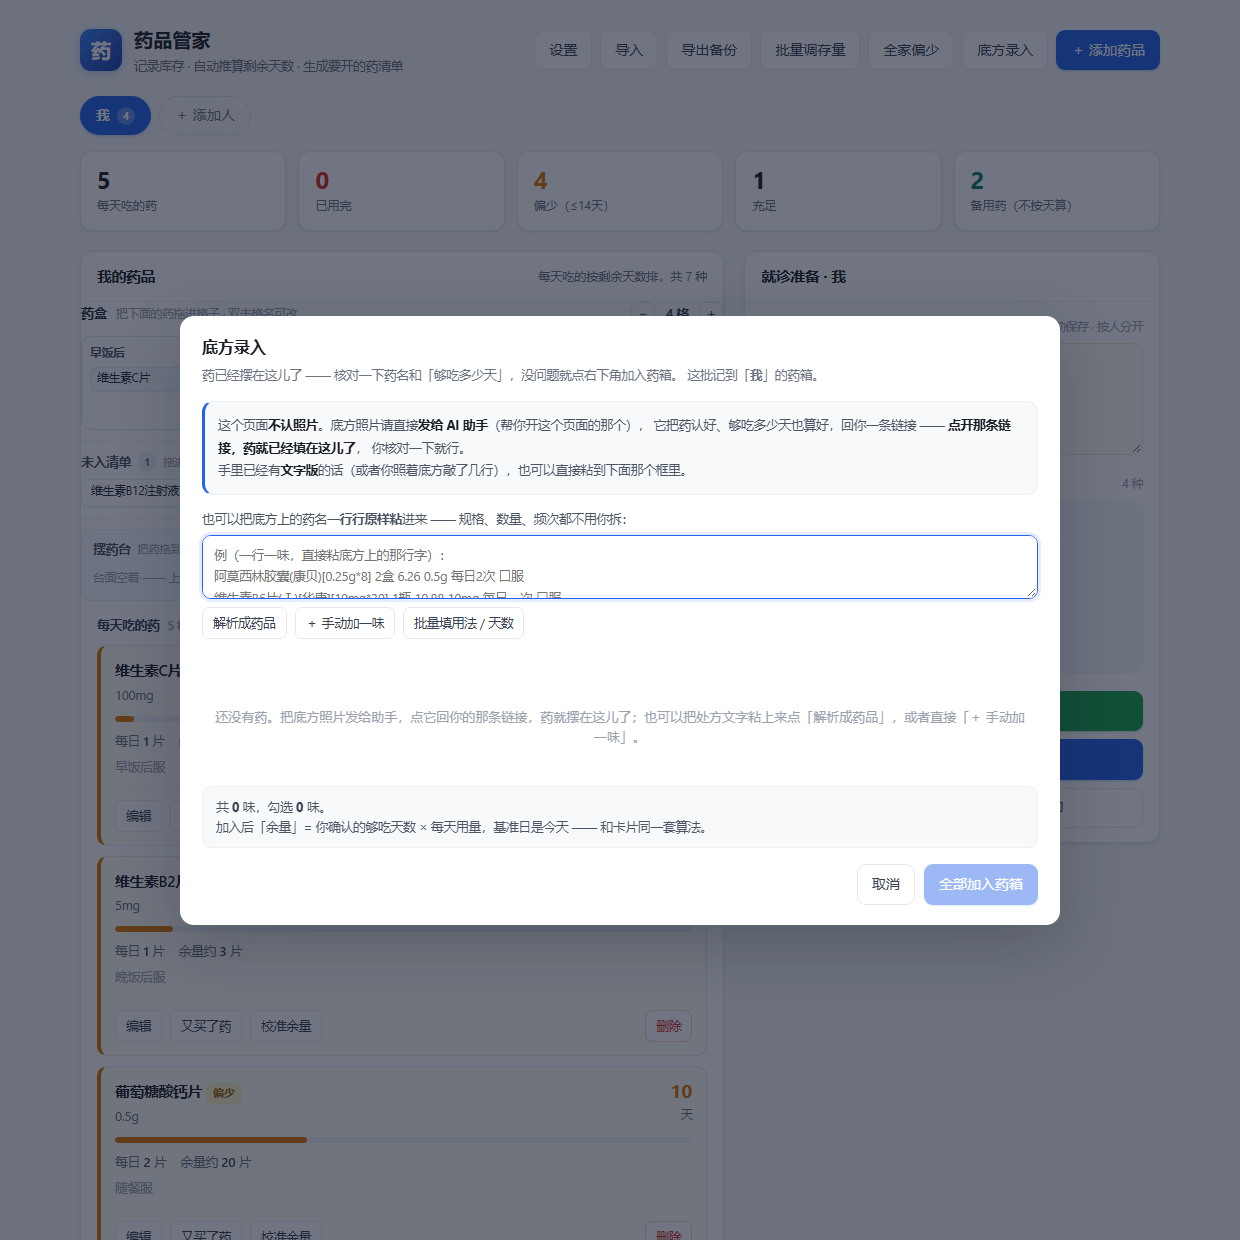
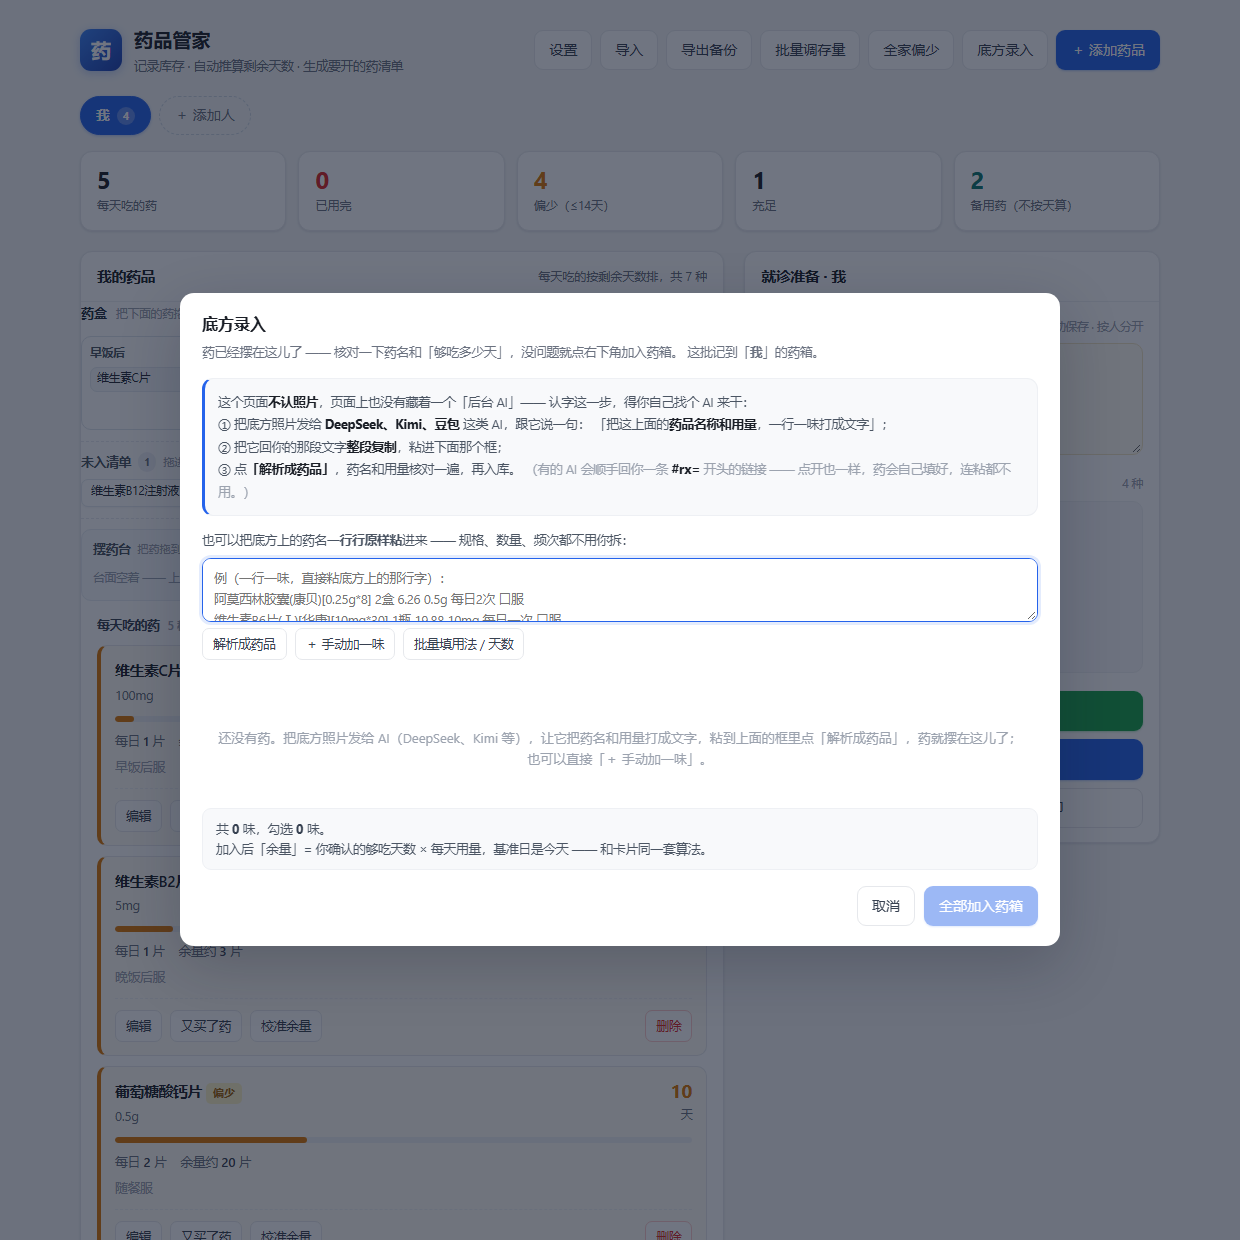
底方录入按用户视角重写：照片自己发给 AI（DeepSeek/Kimi），把药名和用量粘回来

diff --git a/index.html b/index.html
@@ -479,9 +479,10 @@ dialog::backdrop{background:rgba(15,23,42,.36)}
   border:1px solid var(--line-2);border-left:3px solid var(--brand);border-radius:11px;
   background:#f8f9fb;font-size:12.5px;color:#4b5563;line-height:1.8}
 .rx-howto b{color:var(--text)}
+.rx-howto .tip{color:var(--faint)}
 .rx-paste{display:flex;flex-direction:column;gap:7px;margin-bottom:14px}
 .rx-paste .lt{font-size:12.5px;color:#4b5563}
-#rxPaste{font:inherit;font-size:12.5px;line-height:1.7;padding:9px 11px;min-height:64px;
+#rxPaste{font:inherit;font-size:12.5px;line-height:1.7;padding:9px 11px;min-height:92px;
   resize:vertical;border:1px solid var(--line);border-radius:9px;background:#fff;color:var(--text)}
 #rxPaste:focus{outline:none;border-color:var(--brand);box-shadow:0 0 0 3px rgba(37,99,235,.12)}
 .rx-list{display:flex;flex-direction:column;gap:9px;max-height:40vh;overflow:auto}
@@ -611,7 +612,7 @@ dialog::backdrop{background:rgba(15,23,42,.36)}
       <button class="btn ghost" id="btnExport">导出备份</button>
       <button class="btn ghost" id="btnBulk" title="按「够吃 N 天」统一加减这个药箱里所有药品的存量">批量调存量</button>
       <button class="btn ghost" id="btnFam" title="把全家每个人药箱里「已用完 / 偏少」的药摊在一页，买药开药一趟办完">全家偏少</button>
-      <button class="btn ghost" id="btnRx" title="底方照片发给助手（AI），它回你一条链接，点开药就填好了；也可以粘文字或手动加">底方录入</button>
+      <button class="btn ghost" id="btnRx" title="底方照片先发给 AI（DeepSeek、Kimi 等），让它把药名和用量打成文字，再粘进来解析">底方录入</button>
       <button class="btn primary" id="btnAdd">＋ 添加药品</button>
     </div>
   </header>
@@ -752,20 +753,23 @@ dialog::backdrop{background:rgba(15,23,42,.36)}
   </form>
 </dialog>
 
-<!-- 底方录入 —— 只走「助手通道」：
+<!-- 底方录入 —— 页面只认「文字」，照片得先过一个 AI：
      2026-10-12 这里原本还有第二条路「浏览器端拍照 + OCR」（按 EXIF 把照片转正 + 在浏览器里认药名），
      2026-10-13 按用户实测结论**整条删掉**：底方是手机随手拍的，歪、糊、反光不由人控制，
      浏览器里那套识别**跑不通**（认不准还得人一格一格就地改，比直接填还慢），留着只会误导人。
      现在只剩两条都很快的路：
-       ① 把照片发给 AI 助手 → 它认好字、算好天数 → 回你一条带 `#rx=` 的链接 → 点开药已填好；
-       ② 手上已有文字版 → 直接粘进下面的框，点「解析成药品」。
-     ★ 页面里藏了一份写给 AI 助手的说明（紧接着的 `#rx-agent-guide`），
-       助手读一眼就知道该怎么配合 —— 别删它。 -->
+       ① 照片发给任意一个 AI（DeepSeek / Kimi / 豆包…），让它把「药名 + 用量」打成文字，
+          用户把那段文字粘进下面的框 → 点「解析成药品」；
+       ② 那条路里的 AI 若愿意直接给一条带 `#rx=` 的链接，点开药就填好了（可选，不是必须）。
+     ★ 2026-10-23 用户点明口径：「用户看到的就是这个界面，不存在什么这个界面后面还安排着一个后台 AI」。
+       所以界面上**不许**再写「发给帮你开这个页面的助手」这类话 —— 页面自己不会认字，
+       认字的是用户自己找的那个 AI。写文案时按「用户手上的照片 + 一个聊天窗口」来描述。
+     ★ 页面里藏了一份写给 AI 的说明（紧接着的 `#rx-agent-guide`，方便愿意配合的 AI 直接出链接）—— 别删它。 -->
 <dialog id="dlgRx">
   <form id="formRx">
     <div class="dlg-h">
       <h3>底方录入</h3>
-      <p id="rxSub">底方照片交给助手（AI）认，它回你一条链接，点开药就填好了；也可以把药名粘进来，或手动加一味。</p>
+      <p id="rxSub">底方照片先发给 AI（DeepSeek、Kimi 等），让它把药名和用量写成文字，再粘进下面的框。</p>
     </div>
     <div class="dlg-b">
 
@@ -773,10 +777,12 @@ dialog::backdrop{background:rgba(15,23,42,.36)}
       <div class="rx-audit" id="rxAudit" hidden></div>
 
       <div class="rx-howto">
-        这个页面<b>不认照片</b>。底方照片请直接<b>发给 AI 助手</b>（帮你开这个页面的那个），
-        它把药认好、够吃多少天也算好，回你一条链接 —— <b>点开那条链接，药就已经填在这儿了</b>，
-        你核对一下就行。<br>
-        手里已经有<b>文字版</b>的话（或者你照着底方敲了几行），也可以直接粘到下面那个框里。
+        这个页面<b>不认照片</b>，页面上也没有藏着一个「后台 AI」—— 认字这一步，得你自己找个 AI 来干：<br>
+        ① 把底方照片发给 <b>DeepSeek、Kimi、豆包</b> 这类 AI，跟它说一句：
+        「把这上面的<b>药品名称和用量</b>，一行一味打成文字」；<br>
+        ② 把它回你的那段文字<b>整段复制</b>，粘进下面那个框；<br>
+        ③ 点<b>「解析成药品」</b>，药名和用量核对一遍，再入库。
+        <span class="tip">（有的 AI 会顺手回你一条 <b>#rx=</b> 开头的链接 —— 点开也一样，药会自己填好。）</span>
       </div>
 
       <div class="rx-paste">
@@ -809,13 +815,18 @@ dialog::backdrop{background:rgba(15,23,42,.36)}
      产出一条 `#rx=` 链接发回来，用户点开药就填好了。改这个页面时别把它删了。
      ============================================================ -->
 <script type="text/plain" id="rx-agent-guide">
-[药品管家 · 底方录入 —— 写给 AI 助手的说明]
+[药品管家 · 底方录入 —— 写给 AI 的说明]
 
-你是谁：你是「药品管家」这个单文件网页的助手。
-用户会把**底方/处方照片**发给你，让你把上面的药录进这个页面。
+你是谁：用户正在跟你聊天，把**底方/处方照片**发给你，让你把上面的药录进「药品管家」这个单文件网页。
+页面后面**没有任何后台 AI**，认字的就是你（DeepSeek / Kimi / 豆包 / 其他助手都算）。
 这个页面**故意不做浏览器端 OCR**（手机拍的处方歪、糊、反光不由人控制，网页里认不准，
 2026-10-13 已把那套整条删掉），认照片这件事整条交给你。
-你只要产出**一条链接**，用户点开，药就已经摆好在弹窗里等着入库。
+
+两条路，任选：
+  · **给文字**（最通用）：把药名和用量**一行一味**打成纯文字，让用户复制粘进「底方录入」的框里。
+    格式随意，但每行至少要有「药名 + 每次几个 + 每天几次」，页面才解析得出「够吃几天」。
+  · **给链接**（更好，但需要你能构造 URL）：按下面这份说明产出一条 `#rx=` 链接，
+    用户点开，药就已经摆好在弹窗里等着入库，连粘都不用。
 
 ⚠ 先把这一条读完（2026-10-13 加，起因是一次真实事故）：
    有一次，助手把底方上的一味药**换成了另一个同类药**，同时又**漏掉一味真的** ——
@@ -3452,8 +3463,9 @@ function renderRx(){
   const list = $('#rxList');
   const keep = list.scrollTop;
   if(!rxRows.length){
-    list.innerHTML = '<div class="rx-empty">还没有药。把底方照片发给助手，点它回你的那条链接，药就摆在这儿了；'
-      + '也可以把处方文字粘上来点「解析成药品」，或者直接「＋ 手动加一味」。</div>';
+    list.innerHTML = '<div class="rx-empty">还没有药。把底方照片发给 AI（DeepSeek、Kimi 等），'
+      + '让它把药名和用量打成文字，粘到上面的框里点「解析成药品」，药就摆在这儿了；'
+      + '也可以直接「＋ 手动加一味」。</div>';
     list.scrollTop = 0;
     rxSyncFoot();
     return;
@@ -3559,7 +3571,7 @@ function renderUse(){
   const keep = list.scrollTop;
   if(!rxRows.length){
     list.innerHTML = '<div class="use-empty">还没有药。回上一页把底方上的药录进来 —— '
-      + '把照片发给助手拿链接，或者把处方文字粘进去解析。</div>';
+      + '把 AI 写成文字的药名粘进去解析。</div>';
   } else {
     list.innerHTML = rxRows.map(rxUseRowHTML).join('');
   }
@@ -3614,7 +3626,7 @@ function rxUseApplyAll(){
 }
 function openUse(){
   if(!rxRows.length){
-    rxSay('还没有药名可填 —— 先把底方上的药录进来（发照片给助手，或把药名粘进来）。', 'warn');
+    rxSay('还没有药名可填 —— 先把底方上的药录进来（把 AI 写出的药名粘进来，或手动加一味）。', 'warn');
     return;
   }
   const f = $('#useFreq');
@@ -3637,8 +3649,8 @@ function rxReset(){
   const lt = $('#rxPasteLt');
   if(lt) lt.innerHTML = '也可以把底方上的药名<b>一行行原样粘</b>进来 —— 规格、数量、频次都不用你拆：';
   $('#rxPaste').value = '';
-  $('#rxSub').textContent = '底方照片交给助手（AI）认，它回你一条链接，点开药就填好了；'
-    + '也可以把药名粘进来，或手动加一味。吃法和天数在下一个窗口一次填完，程序按「天数 × 每天用量」算出每味开多少。';
+  $('#rxSub').textContent = '底方照片先发给 AI（DeepSeek、Kimi 等），让它把药名和用量写成文字，再粘进下面的框；'
+    + '吃法和天数在下一个窗口一次填完，程序按「天数 × 每天用量」算出每味开多少。';
 }
 
 /* 这份底方是谁的 —— 定位到一个人。三种情况：
@@ -3698,7 +3710,7 @@ function rxWho(t, patient, dup){
       + (t.how === 'matched' ? ' —— 已切到他/她的药箱。' : ''));
   } else {
     L.push('<span class="warn">底方上没写姓名</span> —— 这些药记到当前「' + esc(nm)
-      + '」名下，请自己确认一下是谁的（发底方时让助手把姓名一起带上）。');
+      + '」名下，请自己确认一下是谁的（发给 AI 时让它把姓名一起打上）。');
   }
   if(p.dx) L.push('诊断：' + esc(p.dx));
   if(t.how === 'created') L.push('药箱里原来没有这个人，已新建「' + esc(nm) + '」并切过去。');
@@ -3737,7 +3749,7 @@ function rxAudit(sheets, rows, fromWho, patient){
     if(!fromAgent){ el.innerHTML = ''; el.hidden = true; return; }
     el.className = 'rx-audit miss';
     el.innerHTML = '<div class="hd">这批药是怎么来的</div>'
-      + '助手<b>没交「对账依据」</b> —— <span class="miss">读漏没读漏、读错没读错，没人替你对过</span>。'
+      + '那个 AI <b>没交「对账依据」</b> —— <span class="miss">读漏没读漏、读错没读错，没人替你对过</span>。'
       + '<div class="why">对着照片自己数一下：一共几味药？每张单子上的「金额」，跟上面这些药能不能对上？</div>';
     el.hidden = false;
     return;
@@ -3773,14 +3785,14 @@ function rxAudit(sheets, rows, fromWho, patient){
   const good = !bads.length;
   el.className = 'rx-audit' + (good ? '' : ' bad');
   el.innerHTML = (good
-      ? '<div class="hd">助手交了对账 ✓ <span class="sh">（' + list.length + ' 张底方，共 ' + n + ' 味）</span></div>'
+      ? '<div class="hd">AI 交了对账 ✓ <span class="sh">（' + list.length + ' 张底方，共 ' + n + ' 味）</span></div>'
       : '<div class="hd">对账没通过 ⚠</div>')
     + lines.join('<br>')
     + (good
-        ? '<div class="why">这些是助手自己报的数、自己算的账 —— 页面只能核它自不自洽。'
+        ? '<div class="why">这些是 AI 自己报的数、自己算的账 —— 页面只能核它自不自洽。'
           + '药名还得你对着照片扫一眼（尤其跟下面标了「拿不准」的行对一对）。</div>'
         : '<div class="why"><b>先别入库</b>：金额或行数对不上，说明这一批里必有药读错了'
-          + '（丢一味 / 编一味 / 数量单价读错）。回去核那张单子，或让助手重读一次。</div>');
+          + '（丢一味 / 编一味 / 数量单价读错）。回去核那张单子，或让那个 AI 重读一次。</div>');
   el.hidden = false;
 }
 
@@ -3795,7 +3807,7 @@ async function openRx(rows, fromWho, patient, sheets){
   const who = ((t.person || {}).name) || '';
   const sub = [];
   if(fromWho){
-    sub.push('<b>' + esc(fromWho) + '</b> 已经从你的底方照片上认好了，'
+    sub.push('<b>' + esc(fromWho) + '</b> 按你发给它的底方读好了，'
       + '你核对一下药名和每味「够吃多少天」，没问题就点右下角加入药箱。');
   } else {
     sub.push('药已经摆在这儿了 —— 核对一下药名和「够吃多少天」，没问题就点右下角加入药箱。');

diff --git a/_check/test_rxcap.py b/_check/test_rxcap.py
@@ -930,8 +930,8 @@ PROBE = r"""
      document.querySelectorAll('#rxList .rx-row').length === 1
      && q('#rxList .rx-row:nth-child(1) .rx-days-in').value === '14',
      document.querySelectorAll('#rxList .rx-row').length + ' 行');
-  ck('说明里写清「助手已经认好了，你核对一下」',
-     /已经从你的底方照片上认好/.test(q('#rxSub').textContent), q('#rxSub').textContent.slice(0, 36));
+  ck('说明里写清「这是你发给它的底方读出来的，你核对一下」',
+     /按你发给它的底方读好了/.test(q('#rxSub').textContent), q('#rxSub').textContent.slice(0, 36));
   q('#dlgRx').close();
 
   // 名称空着的行：拦下，不许静默入库
@@ -1066,7 +1066,7 @@ PROBE = r"""
     await openRx(ROWS, '助手', { name:'己' },
            [ { i:1, n:1, amount:20.45, sum:20.45 }, { i:2, n:1, amount:6.58, sum:6.58 } ]);
     ck('交了对账且都对得上 → 显示对账块，且不是报错样式',
-       A().hidden === false && /助手交了对账/.test(txt()) && A().className.indexOf('bad') < 0,
+       A().hidden === false && /AI 交了对账/.test(txt()) && A().className.indexOf('bad') < 0,
        A().className + ' | ' + txt().slice(0, 60));
     ck('逐张写出「第 N 张 · 几味 · 单据 = 算出来」',
        /第 1 张/.test(txt()) && /第 2 张/.test(txt()) && /20\.45/.test(txt()) && /6\.58/.test(txt()),
@@ -1079,7 +1079,7 @@ PROBE = r"""
            [ { i:1, n:1, amount:20.45, sum:38.21 }, { i:2, n:1, amount:6.58, sum:6.58 } ]);
     ck('某张对不上账 → 整块变报错样式', A().className.indexOf('bad') >= 0, A().className);
     ck('没通过的账不许显示成 ✓（不能乱标"交了对账"）',
-       !/助手交了对账/.test(txt()), txt().slice(0, 40));
+       !/AI 交了对账/.test(txt()), txt().slice(0, 40));
     ck('说清是第几张、两个数都摆出来',
        /第 1 张/.test(txt()) && /38\.21/.test(txt()), txt().slice(0, 120));
     ck('并提示「先别入库」', /先别入库/.test(txt()), txt().slice(-60));
@@ -1372,10 +1372,24 @@ def main():
         "pass": "吃错药" in src,
         "got": "已写明" if "吃错药" in src else "(没写)",
     })
+    # 2026-10-23 用户点明口径：「用户看到的就是这个界面，不存在什么这个界面后面还安排着一个后台 AI」。
+    # 所以界面要按「用户手上的照片 + 一个他自己打开的 AI 聊天窗口」来写，并且**点名几个 AI**，
+    # 让人一眼知道该把照片发给谁。
     data["cases"].append({
-        "name": "用户看得懂「把照片发给助手」这条路：界面上写明了「不认照片」+「发给 AI 助手」",
-        "pass": ("不认照片" in src) and ("发给 AI 助手" in src),
-        "got": "已写明" if ("不认照片" in src) else "(没写)",
+        "name": "界面上写明「不认照片」+「没有后台 AI」+ 点名 DeepSeek / Kimi",
+        "pass": ("不认照片" in src) and ("后台 AI" in src)
+                and ("DeepSeek" in src) and ("Kimi" in src),
+        "got": "已写明" if ("不认照片" in src and "后台 AI" in src) else "(没写)",
+    })
+    data["cases"].append({
+        "name": "界面上不再暗示「页面自带一个助手」（这类话一句都不许留）",
+        "pass": ("帮你开这个页面的那个" not in src) and ("发给 AI 助手" not in src),
+        "got": "已清干净" if ("帮你开这个页面的那个" not in src) else "(还在)",
+    })
+    data["cases"].append({
+        "name": "写明要 AI「把药品名称和用量打成文字」——这一步是用户唯一要做的活",
+        "pass": ("药品名称和用量" in src) and ("一行一味" in src),
+        "got": "已写明" if ("药品名称和用量" in src) else "(没写)",
     })
 
     # ---- 源码级：页面里**藏着**一段写给 AI 助手的接口说明（用户 2026-10-13 点名要的）----
